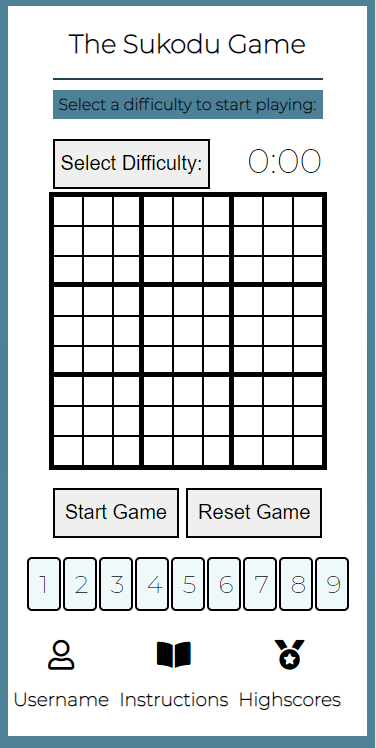
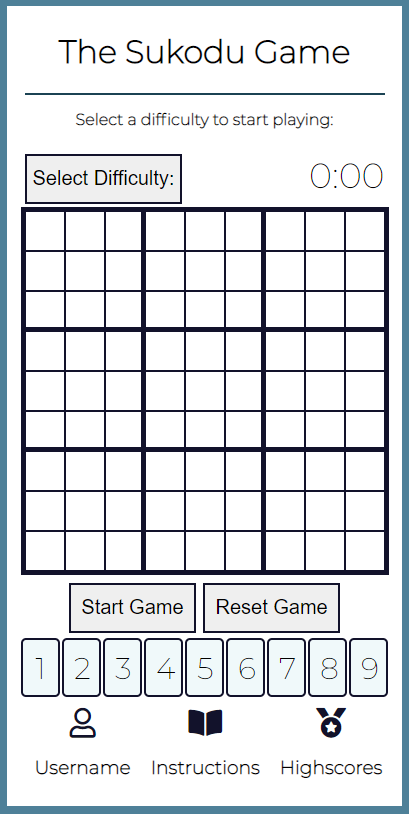
Changes made to the README file and lighthour report added.

Changed region(s): [[0.0, 0.0, 1.0, 1.0]]

diff --git a/index.html b/index.html
@@ -4,6 +4,9 @@
     <meta charset="UTF-8">
     <meta http-equiv="X-UA-Compatible" content="IE=edge">
     <meta name="viewport" content="width=device-width, initial-scale=1.0">
+    <meta name="description" content="The sudoku game gives your brain a gentle workout allowing you to switch off from the world.">
+    <meta name="keywords" content="sudoku, game, puzzle, maths, numbers">
+
     <!--Google Fonts Link-->
     <link rel="preconnect" href="https://fonts.googleapis.com">
     <link rel="preconnect" href="https://fonts.gstatic.com" crossorigin>
@@ -12,7 +15,6 @@
     <link rel="stylesheet" href="https://use.fontawesome.com/releases/v5.15.4/css/all.css" integrity="sha384-DyZ88mC6Up2uqS4h/KRgHuoeGwBcD4Ng9SiP4dIRy0EXTlnuz47vAwmeGwVChigm" crossorigin="anonymous">
     <link rel="stylesheet" href="assets/css/style.css">
     <title>The Sudoku Game</title>
-    <meta name="Sudoku" content="The Sudoku Game will give your brain a gentle workout allowing you to sit back, enjoy and relax." keywords="Sudoku Game Puzzle">
 </head>
 <body>
     <!--Game board-->

diff --git a/assets/css/style.css b/assets/css/style.css
@@ -44,7 +44,6 @@ body{
 }
 
 .select-difficulty {
-    background-color: #4E8098;
     padding: 20px 0;
     margin: auto;
     width: 95%;

diff --git a/README.md b/README.md
@@ -109,7 +109,7 @@ A screenshot of the website from a mobile device can be seen above. Content was 
 
  Furthermore, I regularly generated lighthouse reports giving me an indication of how well the website was performing. Attached below is a screenshot of my lighthouse report at the deployment stage of my project:
 
- ![Lighthouse-Report]()
+ ![Lighthouse-Report](assets/images/lighthouse.PNG)
 
  # Automatic Testing
 
